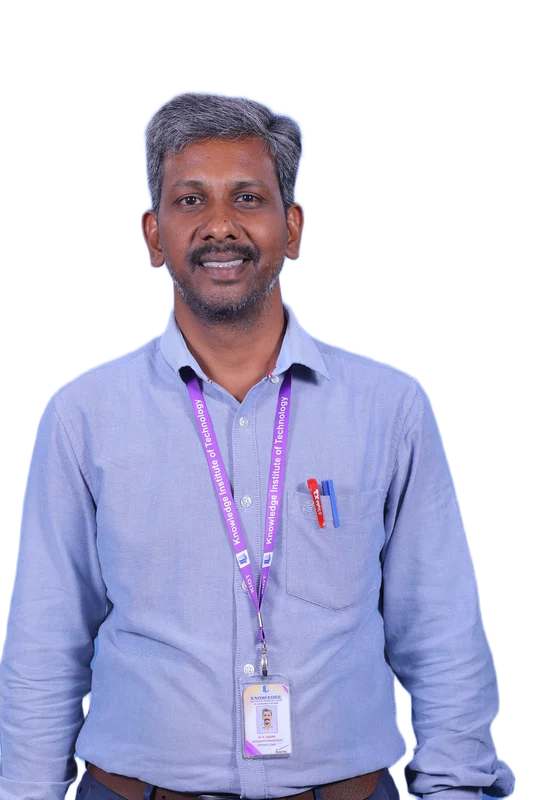
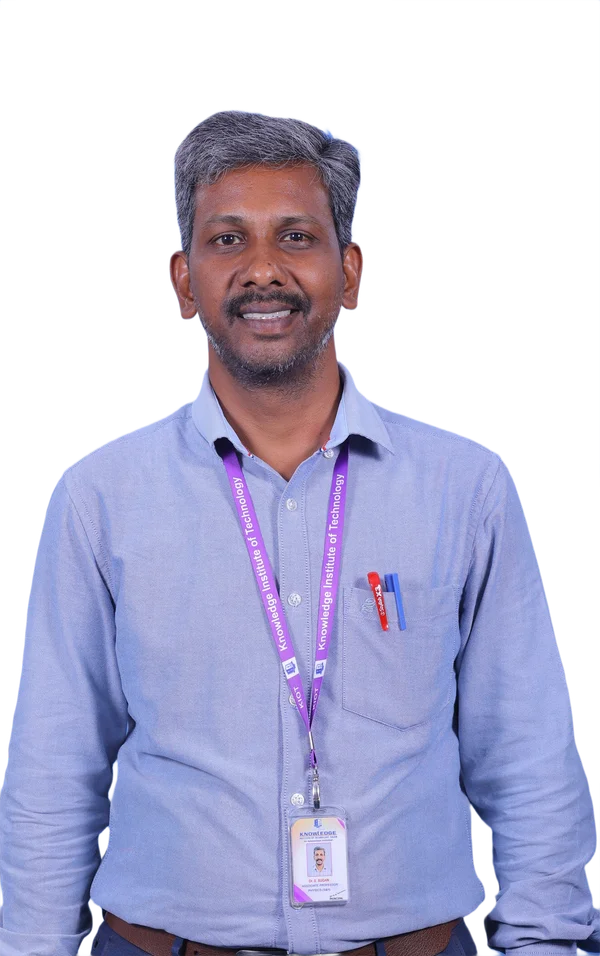
add faculty image

diff --git a/src/components/Academics/CourseDetailPage.jsx b/src/components/Academics/CourseDetailPage.jsx
@@ -716,7 +716,7 @@ export default function CourseDetailPage({ overrides }) {
     : TABS;
 
   const [activeObjectiveTab, setActiveObjectiveTab] = useState('PEO')
-  const [activeResearchSubTab, setActiveResearchSubTab] = useState('Patents')
+  const [activeResearchSubTab, setActiveResearchSubTab] = useState('Funded Projects')
 
   const kapItems = [
     { wk: "WK1", title: "Natural Sciences", desc: "A systematic, theory-based understanding of the natural sciences applicable to the discipline and awareness of relevant social sciences.", icon: Globe },
@@ -2539,48 +2539,57 @@ export default function CourseDetailPage({ overrides }) {
             )}
 
             {/* --- RESEARCH & PATENTS --- */}
-            {activeTab === 'Research' && (
-              <div className="space-y-8">
-                {/* Research Section Header & Sub-Tabs */}
-                <div className="flex flex-col items-center text-center justify-center gap-6 pb-6 border-b border-slate-100">
-                  <div>
-                    <h2 className="text-3xl md:text-5xl font-bold font-graphik text-[#224292] tracking-tight mb-2">
-                      Department <span className="text-[#ffc107]">Research & Innovations</span>
-                    </h2>
-                    <p className="text-[#64779F] text-xs md:text-sm font-medium font-graphik max-w-2xl mx-auto">
-                      Funded Research Projects, Student Innovations & Registered Intellectual Property (Patents)
-                    </p>
+            {activeTab === 'Research' && (() => {
+              const hasFundedProjects = Boolean(course.fundedProjects && course.fundedProjects.length > 0);
+              const researchSubTabs = [
+                ...(hasFundedProjects ? [{ id: 'Funded Projects', label: 'Funded Projects', icon: Coins }] : []),
+                { id: 'Student Projects', label: 'Student Projects', icon: Award },
+                { id: 'Patents', label: 'Patents', icon: ShieldCheck }
+              ];
+              const effectiveResearchSubTab = (!hasFundedProjects && activeResearchSubTab === 'Funded Projects')
+                ? (course.studentProjects && course.studentProjects.length > 0 ? 'Student Projects' : 'Patents')
+                : activeResearchSubTab;
+
+              return (
+                <div className="space-y-8">
+                  {/* Research Section Header & Sub-Tabs */}
+                  <div className="flex flex-col items-center text-center justify-center gap-6 pb-6 border-b border-slate-100">
+                    <div>
+                      <h2 className="text-3xl md:text-5xl font-bold font-graphik text-[#224292] tracking-tight mb-2">
+                        Department <span className="text-[#ffc107]">Research & Innovations</span>
+                      </h2>
+                      <p className="text-[#64779F] text-xs md:text-sm font-medium font-graphik max-w-2xl mx-auto">
+                        {hasFundedProjects
+                          ? "Funded Research Projects, Student Innovations & Registered Intellectual Property (Patents)"
+                          : "Student Innovations & Registered Intellectual Property (Patents)"}
+                      </p>
+                    </div>
+
+                    {/* Research Sub-Tabs Header - Centered */}
+                    <div className="flex flex-wrap items-center justify-center gap-2 bg-[#224292]/5 p-1.5 rounded-2xl border border-[#224292]/10 mx-auto">
+                      {researchSubTabs.map((sub) => {
+                        const SubIcon = sub.icon
+                        const isActive = effectiveResearchSubTab === sub.id
+                        return (
+                          <button
+                            key={sub.id}
+                            onClick={() => setActiveResearchSubTab(sub.id)}
+                            className={`flex items-center gap-2 px-4 py-2.5 rounded-xl text-xs font-bold font-graphik transition-all ${
+                              isActive
+                                ? 'bg-[#224292] text-white shadow-md shadow-[#224292]/20 scale-105'
+                                : 'text-[#224292] hover:bg-[#224292]/10'
+                            }`}
+                          >
+                            <SubIcon size={15} className={isActive ? 'text-[#ffc107]' : 'text-[#224292]'} />
+                            {sub.label}
+                          </button>
+                        )
+                      })}
+                    </div>
                   </div>
 
-                  {/* Research 3 Sub-Tabs Header - Centered */}
-                  <div className="flex flex-wrap items-center justify-center gap-2 bg-[#224292]/5 p-1.5 rounded-2xl border border-[#224292]/10 mx-auto">
-                    {[
-                      { id: 'Funded Projects', label: 'Funded Projects', icon: Coins },
-                      { id: 'Student Projects', label: 'Student Projects', icon: Award },
-                      { id: 'Patents', label: 'Patents', icon: ShieldCheck }
-                    ].map((sub) => {
-                      const SubIcon = sub.icon
-                      const isActive = activeResearchSubTab === sub.id
-                      return (
-                        <button
-                          key={sub.id}
-                          onClick={() => setActiveResearchSubTab(sub.id)}
-                          className={`flex items-center gap-2 px-4 py-2.5 rounded-xl text-xs font-bold font-graphik transition-all ${
-                            isActive
-                              ? 'bg-[#224292] text-white shadow-md shadow-[#224292]/20 scale-105'
-                              : 'text-[#224292] hover:bg-[#224292]/10'
-                          }`}
-                        >
-                          <SubIcon size={15} className={isActive ? 'text-[#ffc107]' : 'text-[#224292]'} />
-                          {sub.label}
-                        </button>
-                      )
-                    })}
-                  </div>
-                </div>
-
-                {/* SUB-TAB 1: FUNDED PROJECTS */}
-                {activeResearchSubTab === 'Funded Projects' && (
+                  {/* SUB-TAB 1: FUNDED PROJECTS */}
+                  {effectiveResearchSubTab === 'Funded Projects' && hasFundedProjects && (
                   <div className="space-y-6">
                     <div className="bg-white rounded-2xl border border-[#E5EDF8] shadow-2xl shadow-blue-900/5 overflow-hidden">
                       <div className="bg-[#224292] px-8 py-5 flex items-center justify-between">
@@ -2647,7 +2656,7 @@ export default function CourseDetailPage({ overrides }) {
                 )}
 
                 {/* SUB-TAB 2: STUDENT PROJECTS */}
-                {activeResearchSubTab === 'Student Projects' && (
+                {effectiveResearchSubTab === 'Student Projects' && (
                   <div className="space-y-6">
                     <div className="bg-white rounded-2xl border border-[#E5EDF8] shadow-2xl shadow-blue-900/5 overflow-hidden">
                       <div className="bg-[#224292] px-8 py-5 flex items-center justify-between">
@@ -2704,7 +2713,7 @@ export default function CourseDetailPage({ overrides }) {
                 )}
 
                 {/* SUB-TAB 3: PATENTS (SHOWS ALL DETAILS) */}
-                {activeResearchSubTab === 'Patents' && (
+                {effectiveResearchSubTab === 'Patents' && (
                   <div className="space-y-6">
                     {course.patents && course.patents.length > 0 ? (
                       <div className="space-y-12">
@@ -2810,8 +2819,9 @@ export default function CourseDetailPage({ overrides }) {
                     )}
                   </div>
                 )}
-              </div>
-            )}
+                </div>
+              );
+            })()}
 
             {/* --- INDUSTRY CONNECT (MBA & MBA-IEV ONLY) --- */}
             {activeTab === 'Industry' && (

diff --git a/src/data/departments/beEeeData.js b/src/data/departments/beEeeData.js
@@ -18,6 +18,10 @@ import eeeRajeswariImage from '../../assets/Faculity/eee/rajeswari.webp'
 import eeeRajkumarImage from '../../assets/Faculity/eee/rajkumar.webp'
 import eeeRekhaPImage from '../../assets/Faculity/eee/rekha_p.webp'
 import eeeSrinithiImage from '../../assets/Faculity/eee/srinithi.webp'
+import eeeHemalathaImage from '../../assets/Faculity/eee/hemalatha.webp'
+import eeeSuganImage from '../../assets/Faculity/eee/sugan.webp'
+import ilangkumaranImage from '../../assets/Faculity/me-ise/ilangkumaran.webp'
+import sureshkrishnaImage from '../../assets/Faculity/me-ise/sureshkrishna.webp'
 import eeeBanner from '../../assets/academics/departments/eee_banner.png'
 
 export const beEeeData = {
@@ -65,14 +69,16 @@ export const beEeeData = {
       { name: 'Ms. Srinithi P', designation: 'Assistant Professor', qualification: 'B.E. (EEE)., M.E. (EST)', specialization: 'Embedded System Technologies', phone: '9865327459', email: 'pseee@kiot.ac.in', rating: 4.5, association: 'Regular', image: eeeSrinithiImage },
       { name: 'Mr. Rajkumar M', designation: 'Assistant Professor', qualification: 'B.E. (EEE)., M.E. (PSE)', specialization: 'Power System Engineering', phone: '9842398035', email: 'mrkeee@kiot.ac.in', rating: 4.6, association: 'Regular', image: eeeRajkumarImage },
       { name: 'Ms. Andril Alagusabai', designation: 'Assistant Professor', qualification: 'B.E. (EEE)., M.E. (EST)', specialization: 'Embedded System Technologies', phone: '9994522894', email: 'aaeee@kiot.ac.in', rating: 4.6, association: 'Regular' },
+      { name: 'Dr. Ilangkumaran M', designation: 'Professor & Director - COE', qualification: 'B.E., M.E., Ph.D.', specialization: 'Industrial Engineering', experience: 'Teaching: 22.6 Years, Research: 13 Years', email: 'mikmech@kiot.ac.in', rating: 4.9, association: 'Regular', joiningDate: '31.12.2021', publications: 'IJ: 65, NJ: 04, IC: 15, NC: 03', image: ilangkumaranImage },
+      { name: 'Mr. Sureshkrishna G', designation: 'Assistant Professor', qualification: 'B.E., M.E.', specialization: 'Industrial Safety Engineering', experience: 'Teaching: 7.4 Years', email: 'gskmech@kiot.ac.in', rating: 4.5, association: 'Regular', joiningDate: '21.03.2025', image: sureshkrishnaImage },
       { name: 'Mr. Sakthimani Rajendran', designation: 'Associate Professor of Practice', qualification: 'M.E., Ph.D.', experience: 'Teaching: 14.0 Yrs.', specialization: 'Electrical Engineering', email: 'sakthimanirajendran@kiot.ac.in', rating: 4.8, association: 'Regular', joiningDate: '25.07.2024' },
       { name: 'Dr. Rekha S', designation: 'Professor - Chemistry & HOD - S&H', qualification: 'M.Sc., M.Phil., Ph.D.', experience: 'Teaching: 14.10 Yrs.', specialization: 'Electro Chemistry', email: 'srchem@kiot.ac.in', rating: 5.0, association: 'Regular', joiningDate: '12.07.2010', publications: 'IJ: 06 & IC: 01 & NC: 01', image: eeeRekhaSImage, category: 'S&H' },
       { name: 'Ms. Manjula K V', designation: 'Assistant Professor - English', qualification: 'M.A., M.Phil.', experience: 'Teaching: 7.0 Yrs.', specialization: 'Feminine Literature', email: 'kvmeng@kiot.ac.in', rating: 4.7, association: 'Regular', joiningDate: '01.06.2018', publications: 'NC: 02', image: eeeManjulaImage, category: 'S&H' },
       { name: 'Mr. Prasath M', designation: 'Assistant Professor - Maths', qualification: 'M.Sc., M.Phil.', experience: 'Teaching: 17.6 Yrs.', specialization: 'Operation Research', email: 'mpmat@kiot.ac.in', rating: 4.8, association: 'Regular', joiningDate: '20.06.2013', publications: 'NC: 01', image: eeePrasathMImage, category: 'S&H' },
       { name: 'Ms. Rajeswari B', designation: 'Assistant Professor - Maths', qualification: 'M.Sc., M.Phil.', experience: 'Teaching: 16.4 Yrs.', specialization: 'Boolean Algebra', email: 'brmat@kiot.ac.in', rating: 4.8, association: 'Regular', joiningDate: '06.06.2012', publications: 'NC: 0', image: eeeRajeswariImage, category: 'S&H' },
       { name: 'Dr. Chitralekha N', designation: 'Professor - Physics', qualification: 'M.Sc, M.Phil, Ph.D. (Physics), M.Ed, M.Phil. (Education), SET (Physical Science)', experience: 'Teaching: 16.5 Yrs.', specialization: 'Ultrasonic and Spectroscopy', email: 'ncphy@kiot.ac.in', rating: 4.9, association: 'Regular', joiningDate: '01.08.2018', publications: 'IJ: 07, NJ: 01, IC: 05, NC: 02', category: 'S&H' },
-      { name: 'Mrs. Hemalatha Madhu', designation: 'Assistant Professor - English', qualification: 'B.A., M.A., M.Phil., NET.', category: 'S&H' },
-      { name: 'Dr. S. Sugan', designation: 'Associate Professor - Physics', qualification: 'B.Sc., M.Sc., Ph.D.', category: 'S&H' },
+      { name: 'Ms. Hemalatha Madhu', designation: 'Assistant Professor - English', qualification: 'B.A., M.A., M.Phil., NET.', specialization: 'English Literature', experience: 'Teaching: 5.0 Yrs.', email: 'mheng@kiot.ac.in', rating: 4.7, association: 'Regular', image: eeeHemalathaImage, category: 'S&H' },
+      { name: 'Dr. Sugan S', designation: 'Associate Professor - Physics', qualification: 'B.Sc., M.Sc., Ph.D.', specialization: 'Physics Science', experience: 'Teaching: 5.0 Yrs.', publications: 'IJ: 05, IC: 03', rating: 4.8, association: 'Regular', image: eeeSuganImage, category: 'S&H' },
     ],
     labs: [
       {

diff --git a/src/data/departments/scienceHumanitiesData.js b/src/data/departments/scienceHumanitiesData.js
@@ -14,6 +14,8 @@ import eeeRekhaSImage from '../../assets/Faculity/eee/rekha_s.webp'
 import eeeManjulaImage from '../../assets/Faculity/eee/manjula.webp'
 import eeePrasathMImage from '../../assets/Faculity/eee/prasath_m.webp'
 import eeeRajeswariImage from '../../assets/Faculity/eee/rajeswari.webp'
+import eeeHemalathaImage from '../../assets/Faculity/eee/hemalatha.webp'
+import eeeSuganImage from '../../assets/Faculity/eee/sugan.webp'
 import naveenkumarImage from '../../assets/Faculity/MECH/Mr. S. Naveenkumar.webp'
 import geethaImage from '../../assets/Faculity/MECH/Dr.K.Geetha.webp'
 import vinothkumarKTamilImage from '../../assets/Faculity/MECH/Dr.K.Vinothkumar.webp'
@@ -96,9 +98,9 @@ export const scienceHumanitiesData = {
       { name: 'Mr. K.Karthick', designation: 'Assistant Professor', qualification: 'M.A., B.Ed., M.Phil.(English)', experience: 'Teaching: 9 Yrs', specialization: 'English Literature', email: 'kkit@kiot.ac.in', publications: 'IJ:1, IC:3, NC:1', rating: 4.5, subject: 'English', category: 'S&H' },
       { name: 'Mr. S.Dineshkumar', designation: 'Assistant Professor', qualification: 'M.A., M.Phil.', experience: 'Teaching – 5 Years', specialization: 'English Literature', email: 'N/A', publications: '-', rating: 4.6, subject: 'English', category: 'S&H' },
       { name: 'Ms. S.J.Kaalijoothi', designation: 'Assistant Professor', qualification: 'M.A., M.Phil.', experience: 'Teaching - 9 Years', specialization: 'English', email: 'sjkeng@kiot.ac.in', publications: 'N/A', rating: 4.6, image: kaalijoothiImage, subject: 'English', category: 'S&H' },
-      { name: 'Ms. Hemalatha Madhu', designation: 'Assistant Professor', qualification: 'M.A., M.Phil.', experience: 'Teaching – 5 Years', specialization: 'English Literature', email: 'N/A', publications: '-', rating: 4.6, subject: 'English', category: 'S&H' },
+      { name: 'Ms. Hemalatha Madhu', designation: 'Assistant Professor', qualification: 'M.A., M.Phil.', experience: 'Teaching – 5 Years', specialization: 'English Literature', email: 'mheng@kiot.ac.in', publications: '-', rating: 4.6, image: eeeHemalathaImage, subject: 'English', category: 'S&H' },
       // ── Physics ──
-      { name: 'Dr. S.Sugan', designation: 'Associate Professor', qualification: 'M.Sc., Ph.D.', experience: 'Teaching – 5 Years', specialization: 'Physics Science', email: 'N/A', publications: '-', rating: 4.6, subject: 'Physics', category: 'S&H' },
+      { name: 'Dr. S.Sugan', designation: 'Associate Professor', qualification: 'M.Sc., Ph.D.', experience: 'Teaching – 5 Years', specialization: 'Physics Science', email: 'N/A', publications: 'IJ: 05, IC: 03', rating: 4.6, image: eeeSuganImage, subject: 'Physics', category: 'S&H' },
       { name: 'Dr. C.Sambathkumar', designation: 'Assistant Professor', qualification: 'M.Sc., M.Phil., Ph.D.', experience: 'Research: 6 Years', specialization: 'Nanomaterials for Energy Storage Application', email: 'sambath7593@gmail.com', publications: 'IJ: 15, IC: 02, NJ: 02', rating: 4.8, image: sambathkumarImage, subject: 'Physics', category: 'S&H' },
       { name: 'Mr. S.Sasikumar', designation: 'Assistant Professor', qualification: 'M.Sc., M.Phil.', experience: 'Teaching - 17 Years', specialization: 'Physics', email: 'ssphy@kiot.ac.in', publications: 'N/A', rating: 4.5, image: sasikumarImage, subject: 'Physics', category: 'S&H' },
       { name: 'Ms. B.Indumathi', designation: 'Assistant Professor', qualification: 'M.Sc., M.Phil.', experience: 'Teaching : 16.10 Years', specialization: 'LASER', email: 'biphy@kiot.ac.in', publications: '-', rating: 4.7, image: indumathiImage, subject: 'Physics', category: 'S&H' },

diff --git a/src/data/departments/meIseData.js b/src/data/departments/meIseData.js
@@ -1,5 +1,7 @@
 import { ShieldCheck, Building2 } from 'lucide-react'
 import srinivasanImage from '../../assets/dir and hod/Dr. PSS. Srinivasan.jpg'
+import ilangkumaranImage from '../../assets/Faculity/me-ise/ilangkumaran.webp'
+import sureshkrishnaImage from '../../assets/Faculity/me-ise/sureshkrishna.webp'
 
 export const meIseData = {
   name: 'M.E Industrial Safety Engineering',
@@ -43,6 +45,7 @@ export const meIseData = {
       association: 'Regular',
       experience: 'Teaching: 20.1 Years, Research: 12 Years',
       specialization: 'Industrial Engineering',
+      image: ilangkumaranImage,
       email: 'mikmech@kiot.ac.in',
       publications: 'IJ: 65, NJ: 03, IC: 07, NC: 01',
       researchSupervision: 'Ph.D. (Supervised): 6; Ph.D. (Supervising): 5',
@@ -56,6 +59,7 @@ export const meIseData = {
       association: 'Regular',
       experience: 'Teaching : 7.4 Years',
       specialization: 'Industrial Safety Engineering',
+      image: sureshkrishnaImage,
       email: 'gskmech@kiot.ac.in',
       rating: 4.5
     }
